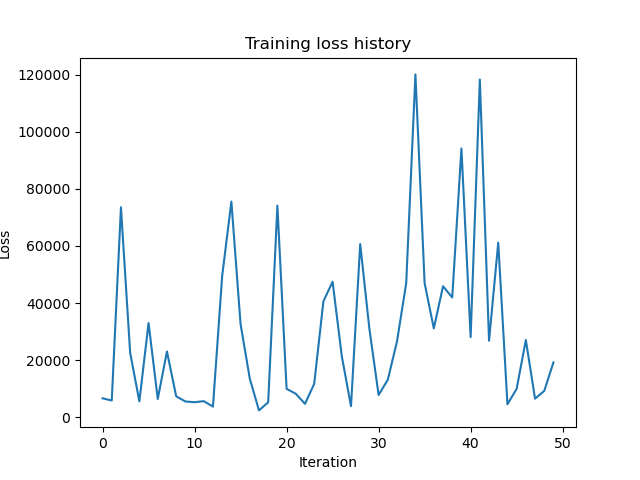
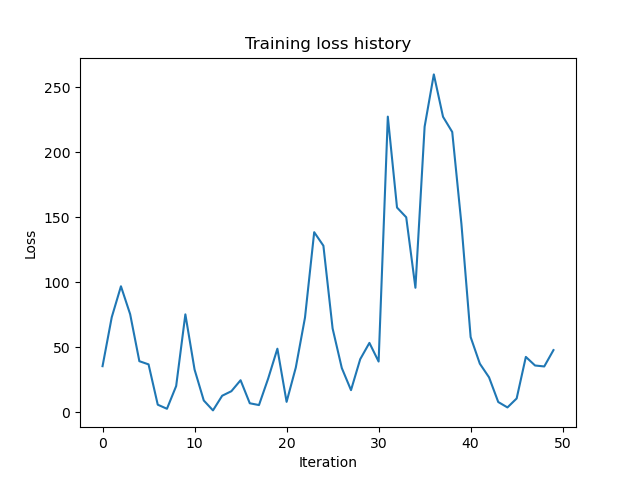
A bug somewhere

diff --git a/Tony/train.py b/Tony/train.py
@@ -9,16 +9,22 @@ import matplotlib.pyplot as plt
 NUM_ITERS = 50
 
 def main():
+    testAngs = np.load('angs_smooth.npy')
     model = ContinuousTimeRNN()
     optimizer = torch.optim.Adam(model.parameters(), lr=1e-4, weight_decay=1e-5)
     criterion = nn.MSELoss()
 
+    chunksize = testAngs.shape[1] // NUM_ITERS
     datagen = AVDataGenerator(T=5000)
     losses = []
     for i in range(NUM_ITERS):
         print(f"Training iteration {i}")
+        rangeStart = i * chunksize
+        rangeEnd = rangeStart + chunksize - 1
+        angs = testAngs[:, rangeStart:rangeEnd]
+        print("angs: ", angs.shape)
 
-        angs = datagen.GenerateAngs()
+        # angs = datagen.GenerateAngs()
         av = datagen.AngsToAv(angs)
         initdir = datagen.AngsToInitDir(angs)
         expected = np.expand_dims(np.expand_dims(angs[1][:-1], 1), 1)
@@ -42,7 +48,6 @@ def main():
     plt.savefig('loss_ctrnn.png')
     plt.clf()
 
-    testAngs = np.load('angs_smooth.npy')
     testAv = datagen.AngsToAv(testAngs)
     testInitdir = datagen.AngsToInitDir(testAngs)
     testVelocities = np.expand_dims(np.expand_dims(testAv, 1), 1)
